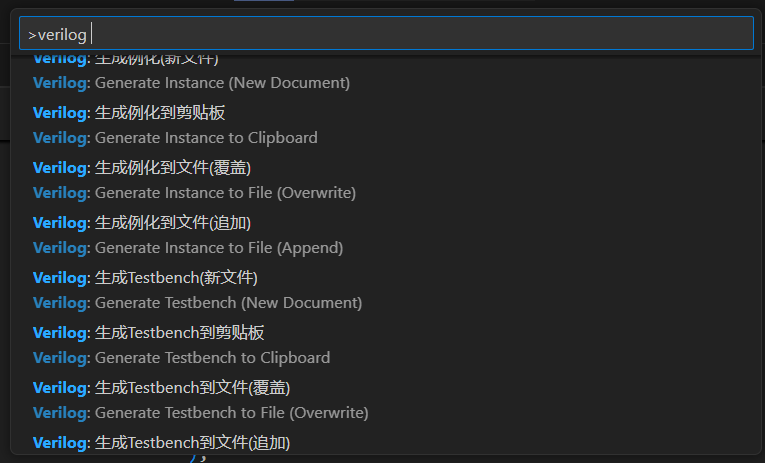
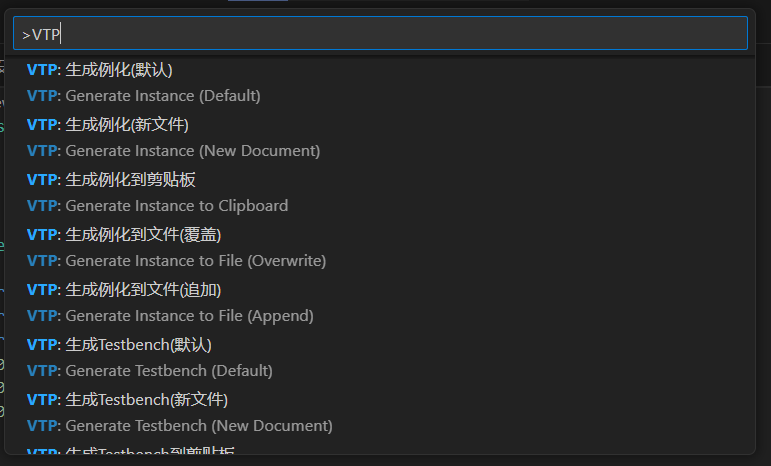
🔊(readme): 更新文档和变更日志v0.1.3

Changed region(s): [[0.0, 0.0302, 1.0, 0.9978]]

diff --git a/README.md b/README.md
@@ -43,11 +43,11 @@ This extension was developed with reference to:
 ![](./images/settings_en.png)
 
 - Custom template file
-    - 1.Open Command Palette (Ctrl + Shift + P)
+    - 1.Right-click in the Verilog file or Open Command Palette (Ctrl + Shift + P)
     - 2.Create Template
     - 3.Select emplate
 
-![](./images/command_palette_template_en.png)
+![](./images/manege_templates_en.png)
 
 - Default configurations
 
@@ -117,22 +117,22 @@ endmodule
 
 ## Version History
 
-### 0.1.1
+### 0.1.3
+- Modify the prefix of command description
+- Add the right-click menu for management templates
 
+### 0.1.1
 - Remove unnecessary files
 
 ### 0.1.0
-
 - Add template operations (add, edit, delete, select)
 
 ### 0.0.2
-
 - Fix bugs
 - Add the function of customizing the output file name
 - Adjust the alignment format
 
 ### 0.0.1
-
 - Initial release
 
 ## Repository
@@ -186,11 +186,11 @@ endmodule
 ![](./images/settings_zh_cn.png)
 
 - 自定义模板文件
-    - 1.打开命令面板(Ctrl + Shift + P)
+    - 1.在Verilog文件中右键 或打开命令面板(Ctrl + Shift + P)
     - 2.创建模板
     - 3.应用模板
 
-![](./images/command_palette_template_zh_cn.png)
+![](./images/manege_templates_zh_cn.png)
 
 - 默认配置
 
@@ -260,22 +260,22 @@ endmodule
 
 ## 版本说明
 
-### 0.1.1
+### 0.1.3
+- 修改命令描述前缀
+- 新增管理模板的右键菜单
 
+### 0.1.1
 - 移除多余文件
 
 ### 0.1.0
-
 - 新增模板操作(添加,编辑,删除,应用)
 
 ### 0.0.2
-
 - 修复bug
 - 新增自定义输出文件名的功能
 - 调整对齐格式
 
 ### 0.0.1
-
 - 首次发布
 
 ## 存储库

diff --git a/CHANGELOG.md b/CHANGELOG.md
@@ -7,10 +7,14 @@ All notable changes to the "verilog-testbench-tofile" extension will be document
 
 ### English
 
-## [0.1.1] - 2025-06-2
+## [0.1.3] - 2025-06-03
+- Modify the prefix of command description
+- Add the right-click menu for management templates
+
+## [0.1.1] - 2025-06-02
 - Remove unnecessary files
 
-## [0.1.0] - 2025-06-2
+## [0.1.0] - 2025-06-02
 - Add template operations (add, edit, delete, select)
 
 ## [0.0.2] - 2025-05-31
@@ -26,10 +30,14 @@ All notable changes to the "verilog-testbench-tofile" extension will be document
 
 ### 中文
 
-## [0.1.1] - 2025-06-2
+## [0.1.3] - 2025-06-03
+- 修改命令描述前缀
+- 新增管理模板的右键菜单
+
+## [0.1.1] - 2025-06-02
 - 移除多余文件
 
-## [0.1.0] - 2025-06-2
+## [0.1.0] - 2025-06-02
 - 新增模板操作(添加,编辑,删除,应用)
 
 ## [0.0.2] - 2025-05-31
